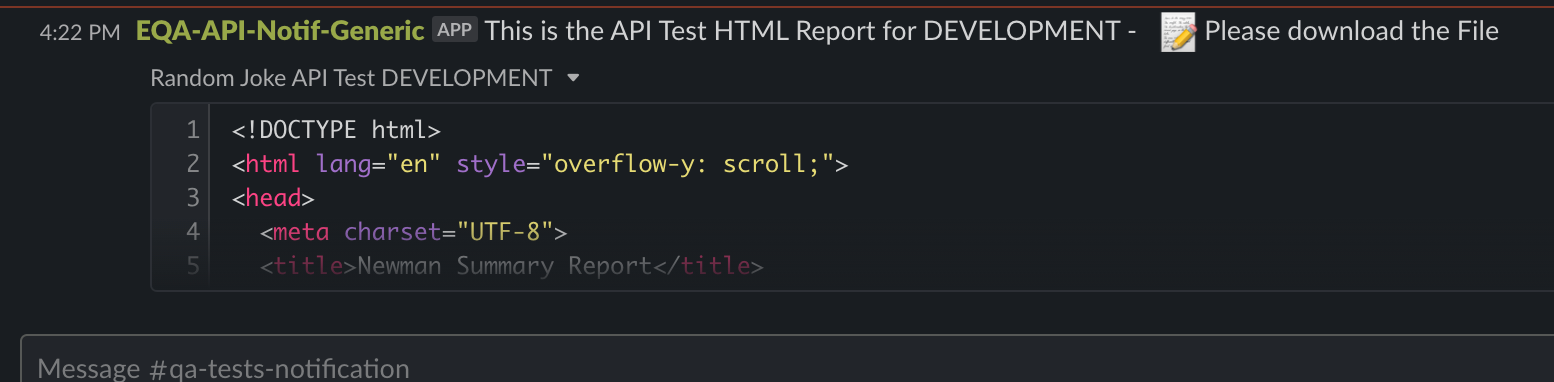
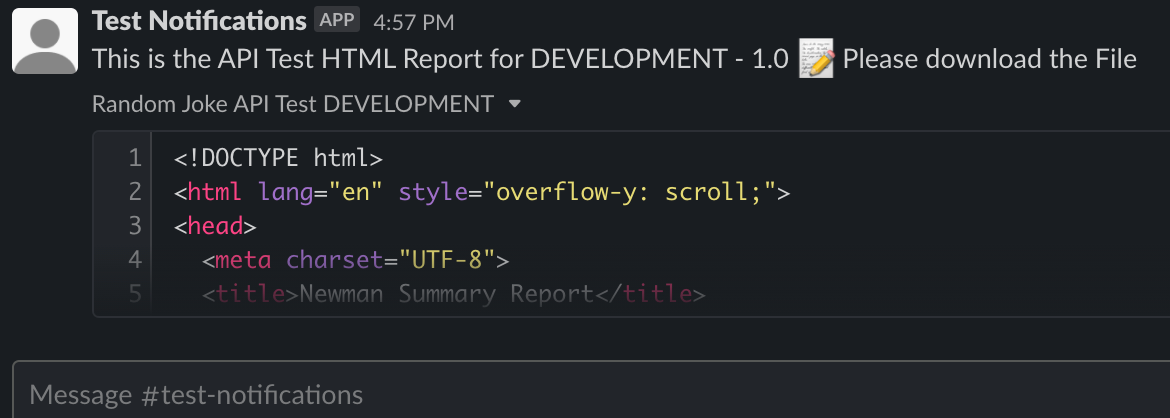
updating slack integration configuration and documentation

diff --git a/postReport.js b/postReport.js
@@ -13,7 +13,7 @@ const envRelease = process.env.RELEASE_RELEASENAME;
 const releaseName = envRelease === undefined ? " " : envRelease;
 
 const authToken =
[2 lines of base64/hex data omitted]
 const CryptoJS = require("crypto-js");
 const encrypt = CryptoJS.enc.Base64.parse(authToken);
 const tokenD = encrypt.toString(CryptoJS.enc.Utf8);
@@ -33,7 +33,7 @@ data.append(
   "initial_comment",
   `This is the API Test HTML Report for ${env} - ${releaseName} :memo: Please download the File`
 );
-data.append("channels", "C029Q378J9W");
+data.append("channels", "C02983RHFRA");
 
 const config = {
   method: "post",

diff --git a/newman-slack.js b/newman-slack.js
@@ -12,7 +12,7 @@ const prettyMs = require("pretty-ms");
 
 // TODO: this needs to be moved to env in the future
 const uri =
[2 lines of base64/hex data omitted]
 
 const CryptoJS = require("crypto-js");
 const encrypt = CryptoJS.enc.Base64.parse(uri);

diff --git a/docs/SlackApp.md b/docs/SlackApp.md
@@ -2,6 +2,8 @@
 
 This document will help you integrate your test results to Slack. The Automation Solution is already hooked up for you with few modifications needed in [newman-slack.js](../newman-slack.js) and [postReport.js](../postReport.js)
 
+> Note: I suggest signing up for a free Slack Workspace. Or you can use my workspace - https://thanatos10.slack.com/. Please reach out to me first if you want to be part of the workspace. Thank you
+
 ---
 
 > Note: Before you start, make sure you have access to create Slack Apps on your Slack workspace. If you don't have access, you can ask your Slack Workspace Admin to build this for you.
@@ -27,6 +29,7 @@ I'm going to layout how to do it using the method I went through but for the ful
 - Select the channel that you want the notification will be posted and click Allow
 - A Webhook URL will created. Click copy
     ![webhook-url](./slackImages/webhook-url.png)
+
 - Open [encrypt-decrypt.js](./encrypt-decrypt.js) and paste the Webhook URL. This is to encrypt the URL
 
     ```javascript
